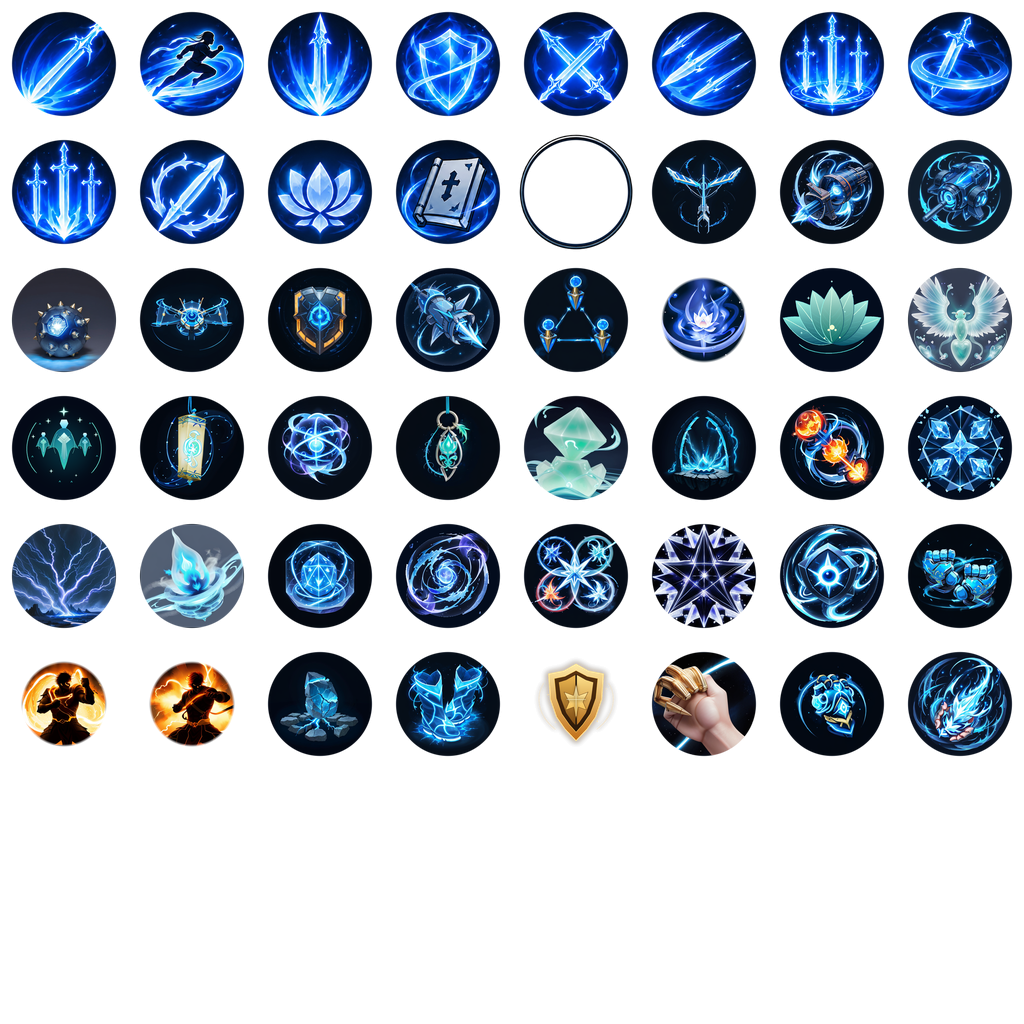
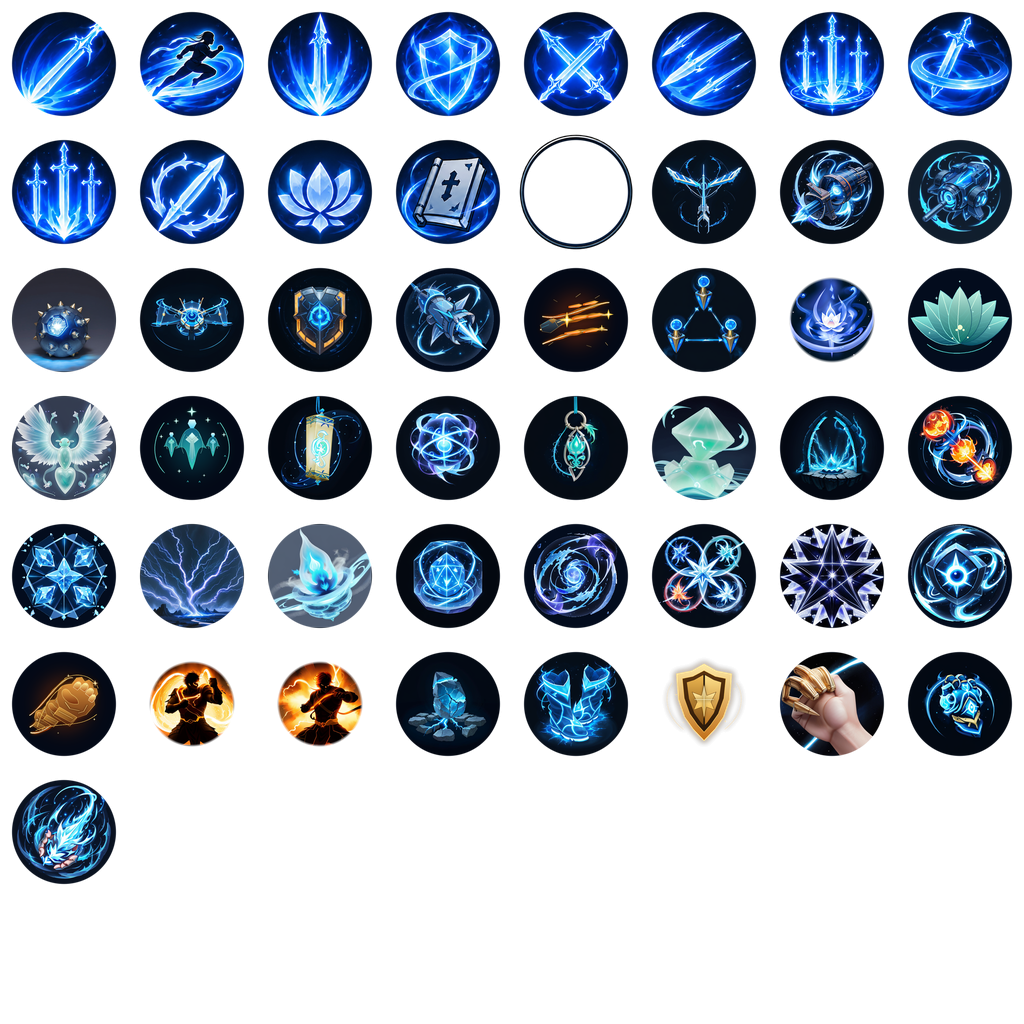
chore: lgo autopilot checkpoint character-hub-v43 - character-hub-fireline-combo-art-v43
Status: CONTINUE
Phase: character-hub-skill-art
Next action: Cải thiện nét hình tác động, đối chiếu Chấn Kình/Linh Thuẫn theo nguồn; giữ five exactlinks, khôngalias/gameplay/gamma.
Reason: Hỏa Tuyến có hình và Liên Kích đổi motifcamvàng, giữbase/frame; nétcòn đơn giản hơn demo, khôngfinalart.

Validation:
- Graphics315/315, Python79/79; missing co_skill_8 RED→GREEN
- One build {'errors': 0, 'warnings': 0}, 132Player frames;8eye-reviewed
- 47moduleRGBAexact;frame/actor/UIruntime/library/itematlas unchanged
- Native source and portablePNG replayexact; no model inference executed

Changed region(s): [[0.0, 0.25, 1.0, 0.875], [0.5, 0.25, 0.5938, 0.3438], [0.4062, 0.375, 0.4688, 0.4688]]

diff --git a/client/Unity/Assets/Game/Tests/EditMode/TwoDCharacterRuntimeStateTests.cs b/client/Unity/Assets/Game/Tests/EditMode/TwoDCharacterRuntimeStateTests.cs
@@ -1515,14 +1515,11 @@ namespace LinhGioi.Tests.EditMode
                 var host = new GameObject("registered skill content test");
                 var scene = CongDongLamMap01AArtPreview.Attach(TwoDOnboardingController.Attach(host));
                 var frame = scene.GetMap01ASkillIconSprite("frame");
-                foreach (var id in new[] { "vo_skill_7", "phap_skill_3", "phap_skill_4", "phap_skill_6", "phap_skill_7",
-                    "phap_skill_8", "co_skill_4", "linh_skill_1", "linh_skill_3", "linh_skill_8",
-                    "phap_skill_1", "phap_skill_2", "phap_skill_5", "phap_skill_9", "vo_skill_5", "vo_skill_9",
-                    "co_skill_2", "co_skill_3", "co_skill_7", "linh_skill_6",
-                    "vo_skill_1", "co_skill_1", "vo_skill_6", "vo_skill_8", "co_skill_5", "co_skill_6",
-                    "co_skill_9", "linh_skill_4", "linh_skill_5", "linh_skill_7", "linh_skill_9",
-                    "vo_skill_2", "vo_skill_3", "vo_skill_4", "linh_skill_2" })
+                Assert.That(CharacterHubClassCatalog.Profiles.Sum(profile => profile.Skills.Count), Is.EqualTo(45));
+                foreach (var profile in CharacterHubClassCatalog.Profiles)
+                foreach (var skill in profile.Skills)
                 {
+                    var id = skill.IconId;
                     var sprite = scene.GetMap01ASkillIconSprite(id);
                     Assert.That(sprite, Is.Not.Null, id + " must resolve its own reviewed artwork, not a HUD fallback.");
                     Assert.That(sprite, Is.Not.SameAs(frame));

diff --git a/docs/execution/NEXT-ACTION.md b/docs/execution/NEXT-ACTION.md
@@ -1,26 +1,27 @@
-# NEXT ACTION — Character Hub / Skill theo demo, không thay bằng gamma
+# NEXT ACTION — Character Hub / tiếp tục mỹ thuật Skill theo demo
 
-- Recovery closure: WIP8file được giữ nguyên, 79Python chạy lại; reuse315graphics/132PNG vì inputruntime khớpSHA. Đã xem lại Thanh Tẩy3viewport và nguồn so demo; build v42 có0error/46warning, không phải0warning. Không sinh/build lại chỉ để khôi phục lượt.
-## Active — tiếp tục nội dung Võ/Linh và Hỏa Tuyến, giữ pipeline chung
-- Worktree `/Users/minhdc/Projects/LinhGioiOnline/.worktrees/character-hub-v22`, branch `codex/character-hub-v22`, upstream `feature/2d`. Không đổi/reset/restore source.
-- SID `S-LGO-SKILL-20260916-C9B4`, task `T-69b4b27c4b39`; check pause/recovery/job/claims trước batch, không lấy quyền/process phiên khác. Cuối lượt `v3.finish` với CONTINUE khi còn việc hợp lệ; không tự nghiệm thu.
-- UI authority vẫn `redesign-v4-five-tabs`; demo class là tham chiếu hình ảnh, không tự đổi runtimeID/tên/cấp/chức năng. Không sửa actor/pose/wardrobe/renderer hoặc frozen surfaces.
+## Active — Võ/Linh và hỏa lực Cơ còn cần hoàn thiện nét, không gamma
+- Giữ worktree `/Users/minhdc/Projects/LinhGioiOnline/.worktrees/character-hub-v22`, branch `codex/character-hub-v22`, upstream `feature/2d`; SID `S-LGO-SKILL-20260916-C9B4`, task `T-69b4b27c4b39`. Không restore/đổi branch/worktree hoặc sửa actor/frozen.
+- Check pause/recovery/job/claims trước batch. `v3.finish` cuối lượt với CONTINUE khi còn việc hợp lệ; không NEED_USER hoặc tự nghiệm thu chỉ vì vừa checkpoint.
+- Canonical UI `redesign-v4-five-tabs`; source class trong selected demos. Giữ base/frame/content tách riêng và exact ownership; không gán alias tên/cấp/gameplay từ ảnh.
 
-## v42 — Thanh Tẩy có nội dung mới trên Player, không phải cả bộ đã đạt
-- Baseline35639c7e. Thanh Tẩy `linh_skill_4` được thay ngọn lửa xanh bằng ba linh thể +hạt sáng xanh ngọc/trắng theo đúng ô Thanh Tẩy trong demo Linh. Native384, raster antialias768 nội bộ, padding32→448; không crop board làm asset, không thêm vòng ngoài hoặc gamma.
-- Đã xem demo→nguồn→Player. Nguồn còn đơn giản/góc cạnh hơn demo; chưa owner/whole-art acceptance. Linh/Vo còn nhiều nguồn sai hình tác dụng hoặc palette.
--47module khác giữ RGBA exact, frame/library/item atlas/UI base không đổi. Atlas1024×1024/886859byte;5designBindings exact. Catalog vẫn44/45cóhình, Hỏa Tuyến chưa có mới.
-- Hai write bị công cụ từ chối: phần vẽ Hỏa Tuyến/Liên Kích và bản tinh chỉnh Thanh Tẩy tiếp. Readback xác nhận phần đầu vắng; bản sau không dùng. Không đổi đường ghi để vượt chặn hoặc lấy draft sai để lấp.
-- Capture chung nhận `--skill-node 0..8`, default5 giữ nguyên; chuyển thành `--lgo-character-hub-skill-node` cho Player và kiểm lại manifest theo node đã yêu cầu. Không rẽ nhánh UI theo class. Lượt v42 chọn node3 cho cả5class để nhìn đúng Thanh Tẩy trong inspector.
--315/315graphics không fail/skip;79/79Python; một build/capture132ảnh. Đã xem8ảnh: Thanh Tẩy3viewport, Skill Võ/CơPC, Kiếmtablet, Phápmobile và Tiềm năngPC. Không thấy clipping/notice/frame mới sai. Node parser và Python command có RED→GREEN.
+## v42 đã chốt, v43 có output mới được kiểm Player
+- Recovery v42 bảo toàn8WIP, chạy lại79Python, reuse315graphics/132PNG bằnghash; Thanh Tẩy giữ3linh thể aqua theo đúng ôdemo. Commit2bd8b7cc đã push/remoteverify. Buildv42 có0error/46warning, không gọi0warning.
+- v43 thêm Hỏa Tuyến co_skill_8: ba luồng hỏa lực cam/trắng và điểm phát cơ giới; thay Liên Kích vo_skill_1 bằng ba ảnh quyền liên hoàn cam/vàng. Không có tên/cấp/mô tả mới. Catalog45/45cósprite, không phải45ảnh đạt mỹ thuật.
+- Source native384+padding32→448, cùng packer128/frame. Bản nét mảnh giữ ởnative/; bản chọn native-reviewed/ vẽ lại mảng quyền và dải lửa, không gamma hoặc bboxfit. Model paint-pass bị chặn ởappend, không được ghi/chạy hoặc dùng đường khác; không claim model hoàn thiện ảnh.
+- Hỏa Lực Liên Thanh/Liên Quyền trong demo chỉ là VISUAL_MOTIF_REFERENCE_ONLY_NOT_GAMEPLAY_ALIAS. Năm exact-label designBindings giữ nguyên; hai visualReferences được lưu trong registry/review, không nới gate exactlabel.
+- Atlas1024×1024/893243byte,49module:45skill+3category+1frame.47module khác giữ RGBAexact, itematlas/actor/UIruntime/library không đổi.
+- Test availability đọc45skill từcatalog chung thay danh sáchID viết tay. RED xác nhận co_skill_8 thiếu → GREEN.315/315graphics,79/79Python, một build/capture132ảnh. Eye8ảnh gồm HỏaTuyến+LiênKích ở3viewport, Linh và Tiềm năngPC.
+- Không thấy clipping/frame/notice mới sai ở ảnh đã xem. Nét còn hình học; nòng nhỏ và luồng phụ HỏaTuyến, các mảng quyền LiênKích chưa có độ tinh tế như demo. Chưa owner/whole-art acceptance.
 
-## Bước tiếp theo — không đóng goal chỉ vì batch đã chốt
-1. Hỏa Tuyến: demo Cơ có nhãn “Hỏa Lực Liên Thanh” và luồng hỏa lực cam/trắng. Chỉ dùng làm tham chiếu hình tác động, không ghi thành EXACT_LABEL hoặc tự alias ID/cấp; packer exact-label hiện vẫn giữ nguyên. Chưa có artwork mới từ lượt v42.
-2. Liên Kích: đối chiếu chuyển động quyền liên hoàn cam/vàng ở demo Võ; không dùng hình đá/huy hiệu xanh hiện tại làm chuẩn. Không giả Liên Quyền và Liên Kích đã cùng gameplay contract.
-3. Các kỹ năng có nhãn/nguồn khớp rõ tiếp tục qua registry tích lũy, giữ5designBindings. Với nhãn khác, cần ghi rõ phạm vi tham chiếu hình ảnh, không nới exact-label gate hoặc đổi tên để làm đủ.
-4. Dùng capture `--skill-node` chọn đúng vị trí cần nhìn; một base/frame dùng chung. Không tạo thêm wrapper chọn class hoặc tăng gamma để che source chưa đúng. Giữ draft/lỗi làm evidence; chỉ push batch đã test/Player audit.
+## Bước tiếp theo cụ thể
+0. Recovery v43 đã xác minh năm WIP giữ đúng hash, chạy lại 79 test Python và kiểm 132 PNG/ZIP. Dùng Python hệ thống có Pillow cho test ảnh, Python 3.12 cho test UI; lần gọi gộp sai interpreter được giữ riêng. Unity 315/315 và Player được tái sử dụng vì input không đổi. Receipt sau checkpoint ghi commit/remote; không build hoặc tạo nguồn lại.
+1. Rà nét và độ lấp đầy Hỏa Tuyến/Liên Kích ở64–128px với đúng vùngdemo đãpin; thêm chi tiết hình tác động hữu ích, không tănggamma, tint hoặc phóngUI để che nét. Không chạy refine_attacks.py viết dở hoặc gọi lại pass bị từ chối qua đường khác.
+2. Tiếp nhóm Võ/Linh còn sai motif rõ trong Player: Chấn Kình đang mang hình đá/băng và Linh Thuẫn mang cánh/trái tim. Đọc lại đúng ôdemo, lập visual-only mapping khi nhãn khôngexact; không dùng vật phẩm/portrait thay hiệu ứng kỹ năng.
+3. Giữ các nguồn đã cải thiện/5designBindings khi tích lũy registry. Review source→Player ởnode tương ứng qua --skill-node; không thêm wrapperclass hoặc đổi actor.
+4. Chỉ chuyển READY_REVIEW khi thực sự đủ goal5tab. Số lượngsprite/testxanh/checkpoint không thay mỹ thuật hoặc device gate.
 
 ## Evidence
-`build/character-hub-skill-motifs-v42/`: native/, paint_actions.py, generation.json, art-review.json, demo-before-after.png (nguồn, KHÔNG Player), artwork-registry.json, import-proof.json, full-editmode.xml, runtime-review.json, runtime-final/, player-final/LinhGioiOnline.app.
-`lgo-thanh-tay-v42-authoring.zip` +`.zip.sha256`: native, recipe, cumulative source/registry và demo reference-only; portablePNG/nativeRGBA replay đúng byte. Không có font/model/binary; không unzip vào Resources.
-`checkpoint-receipt.json` xác minh sau push. `CONTINUE / PARTIAL_THANH_TAY_DEMO_ALIGNMENT / VISUAL_FIX_REQUIRED` — không nghiệm thu toàn Character Hub hoặc mobile/tablet thật.
+v43: `build/character-hub-attack-motifs-v43/`: runtime-review.json, runtime-final/, player-final/LinhGioiOnline.app, source-comparison-reviewed.png (nguồn, KHÔNG Player), import-proof.json, full-editmode.xml, package-proof.json, checkpoint-receipt.json saupush.
+`lgo-attack-motifs-v43-authoring.zip` +`.zip.sha256`: source/recipe/cumulative registry/visual references; nativeRGBA và portablePNG replayexact. Khôngfont/model/binary, khôngunzipboard vàoResources.
+`CONTINUE / PARTIAL_ACTION_MOTIF_ALIGNMENT / VISUAL_FIX_REQUIRED` — không nghiệm thu toànclass, CharacterHub hay thiết bịmobile/tablet thật.

diff --git a/docs/execution/PROJECT-STATE.md b/docs/execution/PROJECT-STATE.md
@@ -1,3 +1,22 @@
+## Character Hub v43 — recovery checkpoint — 2026-09-17
+
+- Năm WIP đúng hash từ C-551efc013a74; 79 Python chạy lại và 132 PNG/ZIP tái kiểm. Không có worker v43 cũ còn chạy.
+- Lỗi đầu lượt là dùng Python 3.12 không có Pillow; quay về hai interpreter hiện hành, không cài hoặc đổi toolchain. Log lỗi giữ nguyên.
+- Runtime/source không đổi trong closure; dùng lại Unity 315/315, build 0 lỗi/0 cảnh báo và Player đã audit, không tự coi mỹ thuật đạt.
+- Tiếp tục nét và mapping Skill theo NEXT-ACTION sau checkpoint; toàn goal CONTINUE.
+
+## Character Hub v43 — Hỏa Tuyến và quyền liên hoàn, chưa visual final — 2026-09-17
+
+- Bàn giao cuối: v43 chưa commit/push vì tool checkpoint bị từ chối; HEAD2bd8b7cc là v42 đãpush.5WIP cònnguyên, indexrỗng, recordedworkerkếtthúc. Xem blocked-checkpoint.json; không giả định v43 đã phát hành.
+- CùngSID/task/worktree/branch. Recoveryv42 chốt2bd8b7cc sau79Pythonfresh vàhashreuse315graphics/132PNG; khôngtạo/build lại ThanhTẩy. Tiếp ngayv43, không tựđónggoal.
+- HỏaTuyến co_skill_8 có nội dung hỏa lực cam/trắng; LiênKích vo_skill_1 thay fists xanh bằng quyềnliênhoàn cam/vàng. Hai nguồn native384/padding32, original layerdrawing; khônggamma, khôngcropboard làmasset, khôngphóngUI.
+- Bảnđầunétmảnh đượcgiữ; bảnsau sửa mảng hình và ribbonlửa. Optionalmodel scriptappend bị từchối, readback xácnhận khôngghi/chạy; không có inferencemodel trongbatch, không dùng đườngkhác để chạypass đó.
+- Năm exactlabel designBindings vẫnnguyên. HỏaLựcLiênThanh và LiênQuyền là visual-onlyreference, KHÔNG alias ID/tên/cấp hoặc phêduyệtgameplay. Library/actor/UIbase/itematlas/frozen khôngđổi.
+- Atlas1024²/893243byte/49module;47module cũRGBAexact, framegiữnguyên. Catalog45/45cósprite nhưng toànartchưađạt. Testavailability tiêu thụcatalog chung thaylistIDviếttay; REDco_skill_8 thiếu→GREEN.
+-315/315graphics/79Python; mộtbuild 0error/0warning,132capture. Đãxem8ảnh: HỏaTuyến/LiênKích3viewport+Linh/TiềmnăngPC. Khôngthấyclipping/leaknotice mới; nétcòn hìnhhọc, nòngvàluồngphụnhỏtrêntablet, chưa sátđộvẽcủademo.
+- Source/native/portablePNG replayexact; ZIPprovenance khôngfont/model/binary. Evidence build/character-hub-attack-motifs-v43/runtime-review.json, source-comparison-reviewed.png (khôngPlayer), runtime-final/, package-proof.json.
+- Next: sửa nét/độrõ hình tác động theo từngnhóm; Võ ChấnKình và LinhThuẫn cần đối chiếu nguồntrướcđổi, khônglấp bằnghìnhvậtphẩm/portrait. CONTINUE / PARTIAL_ACTION_MOTIF_ALIGNMENT / VISUAL_FIX_REQUIRED, khôngchờownernghiệmthu vìvừachốtbatch.
+
 ## Character Hub v42 — Thanh Tẩy theo demo và chọn đúng node để audit — 2026-09-16
 
 - Recovery closure: WIP8file được giữ nguyên, 79Python chạy lại; reuse315graphics/132PNG vì inputruntime khớpSHA. Đã xem lại Thanh Tẩy3viewport và nguồn so demo; build v42 có0error/46warning, không phải0warning. Không sinh/build lại chỉ để khôi phục lượt.
